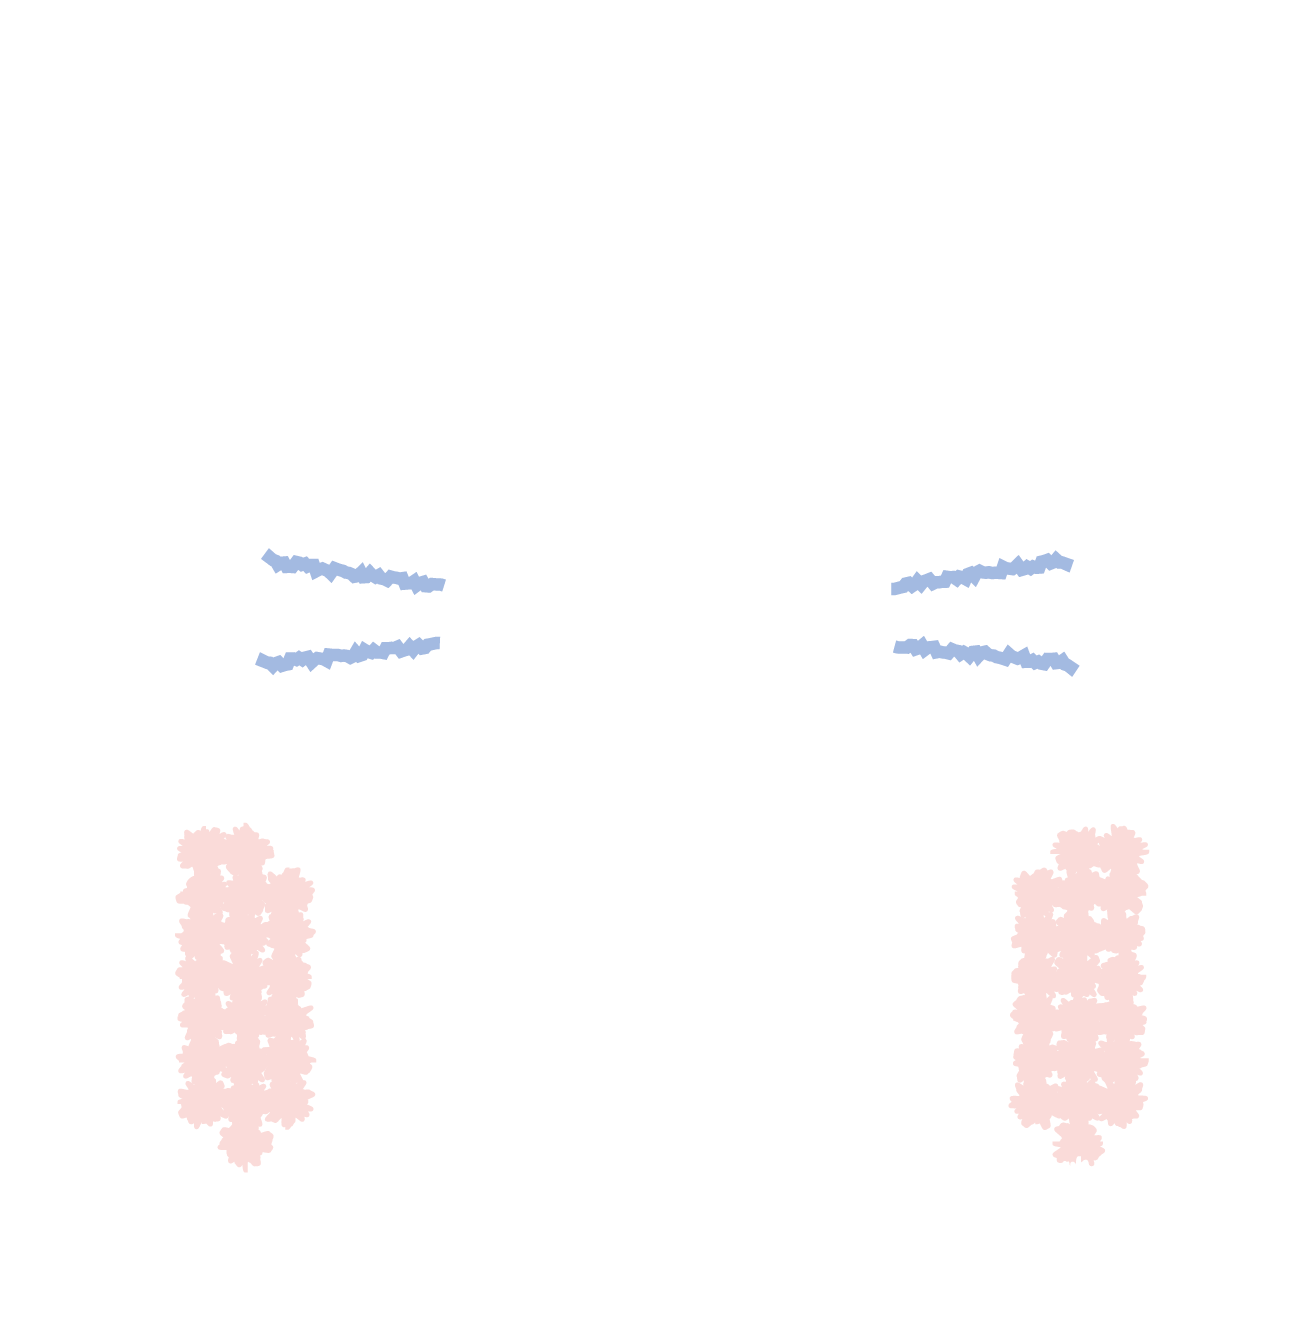
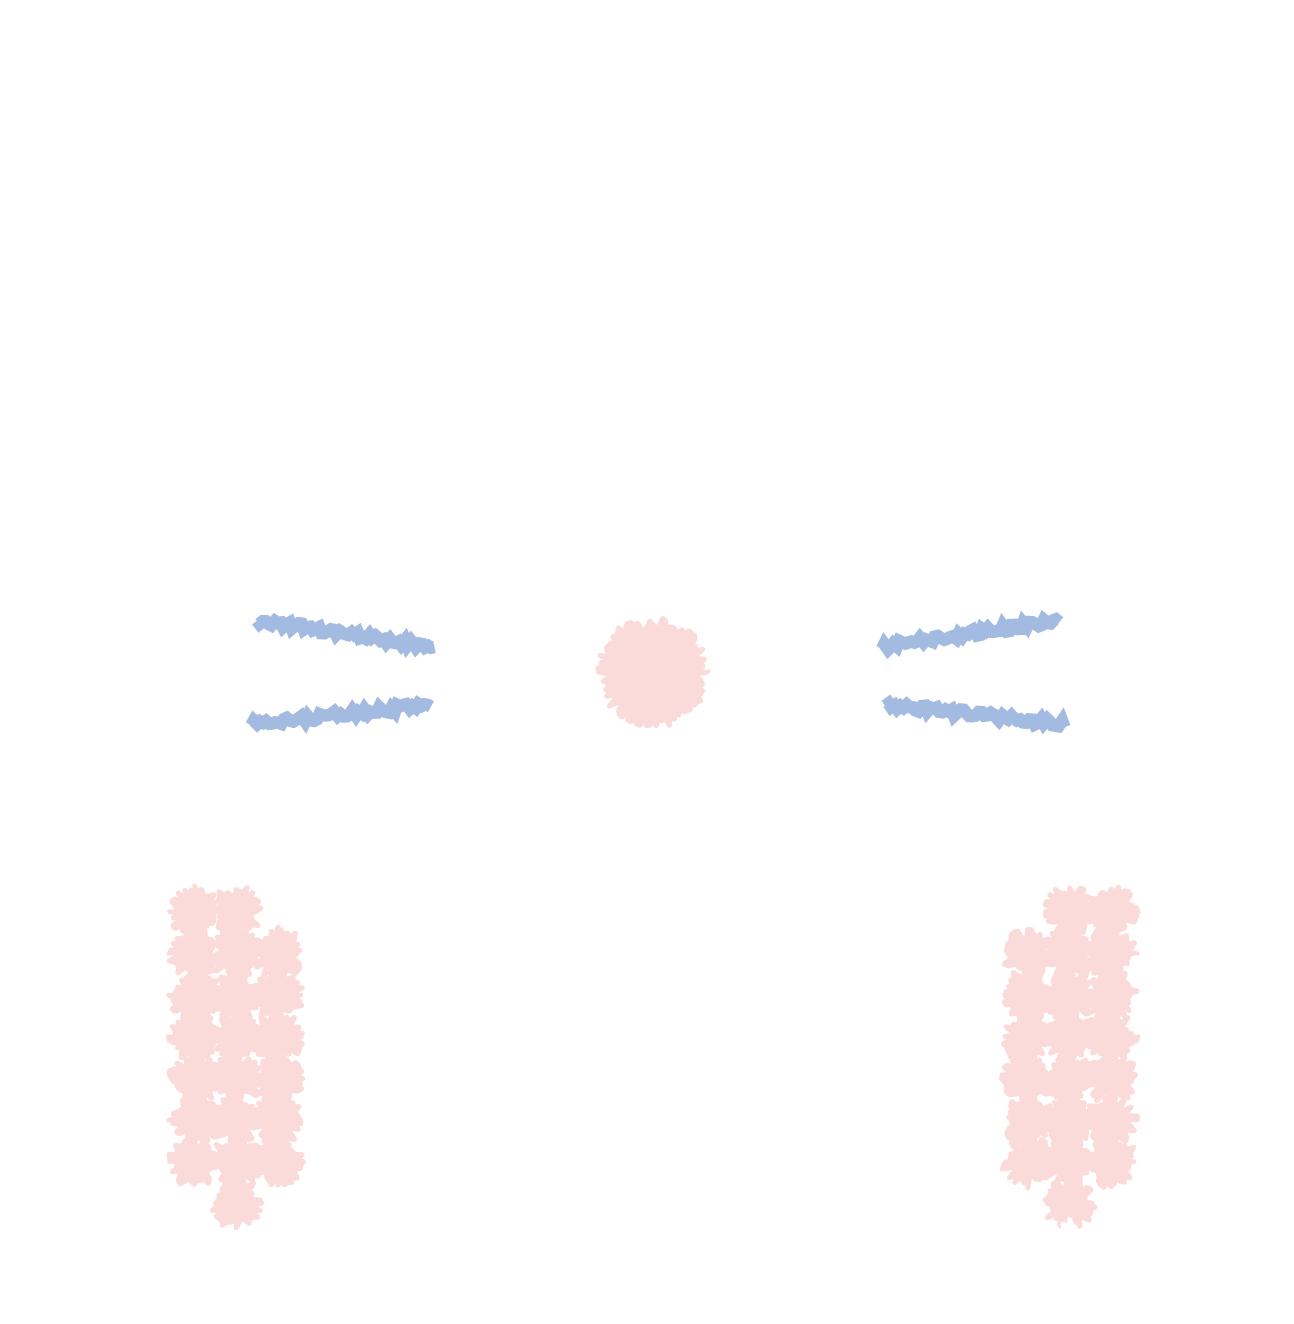
123123

diff --git a/lib/frame-profiles.ts b/lib/frame-profiles.ts
@@ -21,7 +21,10 @@ export const FRAME_PROFILES: FrameProfile[] = [
     id: "plain",
     name: "기본 필터",
     frameImageSrc: null,
-    cssFilter: "none",
+    // 캡처 결과 톤 보정 (미리보기에는 적용되지 않음)
+    // 밝기: brightness(1.03~1.10)
+    // 붉은기 완화: hue-rotate(0deg~4deg)
+    cssFilter: "brightness(1) saturate(1.02) contrast(1.02) hue-rotate(2deg)",
     overlay: "transparent",
     frameScale: 2.2,
     bottomOffsetFaceRatio: 0.15,
@@ -34,9 +37,8 @@ export const FRAME_PROFILES: FrameProfile[] = [
     id: "bunny",
     name: "기본 버니 필터",
     frameImageSrc: "/img/frame/bunny.png",
-    cssFilter: "brightness(1.05) saturate(1.12)",
-    overlay:
-      "linear-gradient(180deg, rgba(255,189,214,0.2), rgba(255,255,255,0.06))",
+    cssFilter: "brightness(1) saturate(1.02) contrast(1.02) hue-rotate(2deg)",
+    overlay: "transparent",
     frameScale: 2.2,
     bottomOffsetFaceRatio: 0.15,
     frameOffsetXFaceRatio: 0,
@@ -48,11 +50,10 @@ export const FRAME_PROFILES: FrameProfile[] = [
     id: "lop_bunny",
     name: "롭 버니 필터",
     frameImageSrc: "/img/frame/lop_bunny.png",
-    cssFilter: "brightness(1.04) saturate(1.08) hue-rotate(2deg)",
-    overlay:
-      "linear-gradient(180deg, rgba(212,203,255,0.18), rgba(255,255,255,0.06))",
+    cssFilter: "brightness(1) saturate(1.02) contrast(1.02) hue-rotate(2deg)",
+    overlay: "transparent",
     frameScale: 2,
-    bottomOffsetFaceRatio: 0.55,
+    bottomOffsetFaceRatio: 0.48,
     frameOffsetXFaceRatio: 0,
     frameOffsetYFaceRatio: 0,
     holeSeedXRatio: 0.5,

diff --git a/app/page.tsx b/app/page.tsx
@@ -778,7 +778,7 @@ export default function Home() {
     }
 
     rawCtx.setTransform(dpr, 0, 0, dpr, 0, 0);
-    rawCtx.filter = selectedFilter.cssFilter;
+    rawCtx.filter = "none";
     rawCtx.translate(outWidth, 0);
     rawCtx.scale(-1, 1);
     rawCtx.translate(CAPTURE_X_NUDGE_PX, 0);
@@ -917,7 +917,7 @@ export default function Home() {
           isDenied ? "opacity-0" : "opacity-100"
         }`}
         style={{
-          filter: selectedFilter.cssFilter,
+          filter: "none",
           transform: "scaleX(-1)",
         }}
         muted
@@ -927,7 +927,7 @@ export default function Home() {
       <div
         className="pointer-events-none absolute inset-0"
         style={{
-          background: isDenied ? "rgba(0,0,0,1)" : selectedFilter.overlay,
+          background: isDenied ? "rgba(0,0,0,1)" : "transparent",
           boxShadow: "inset 0 0 120px rgba(0,0,0,0.35)",
         }}
       />